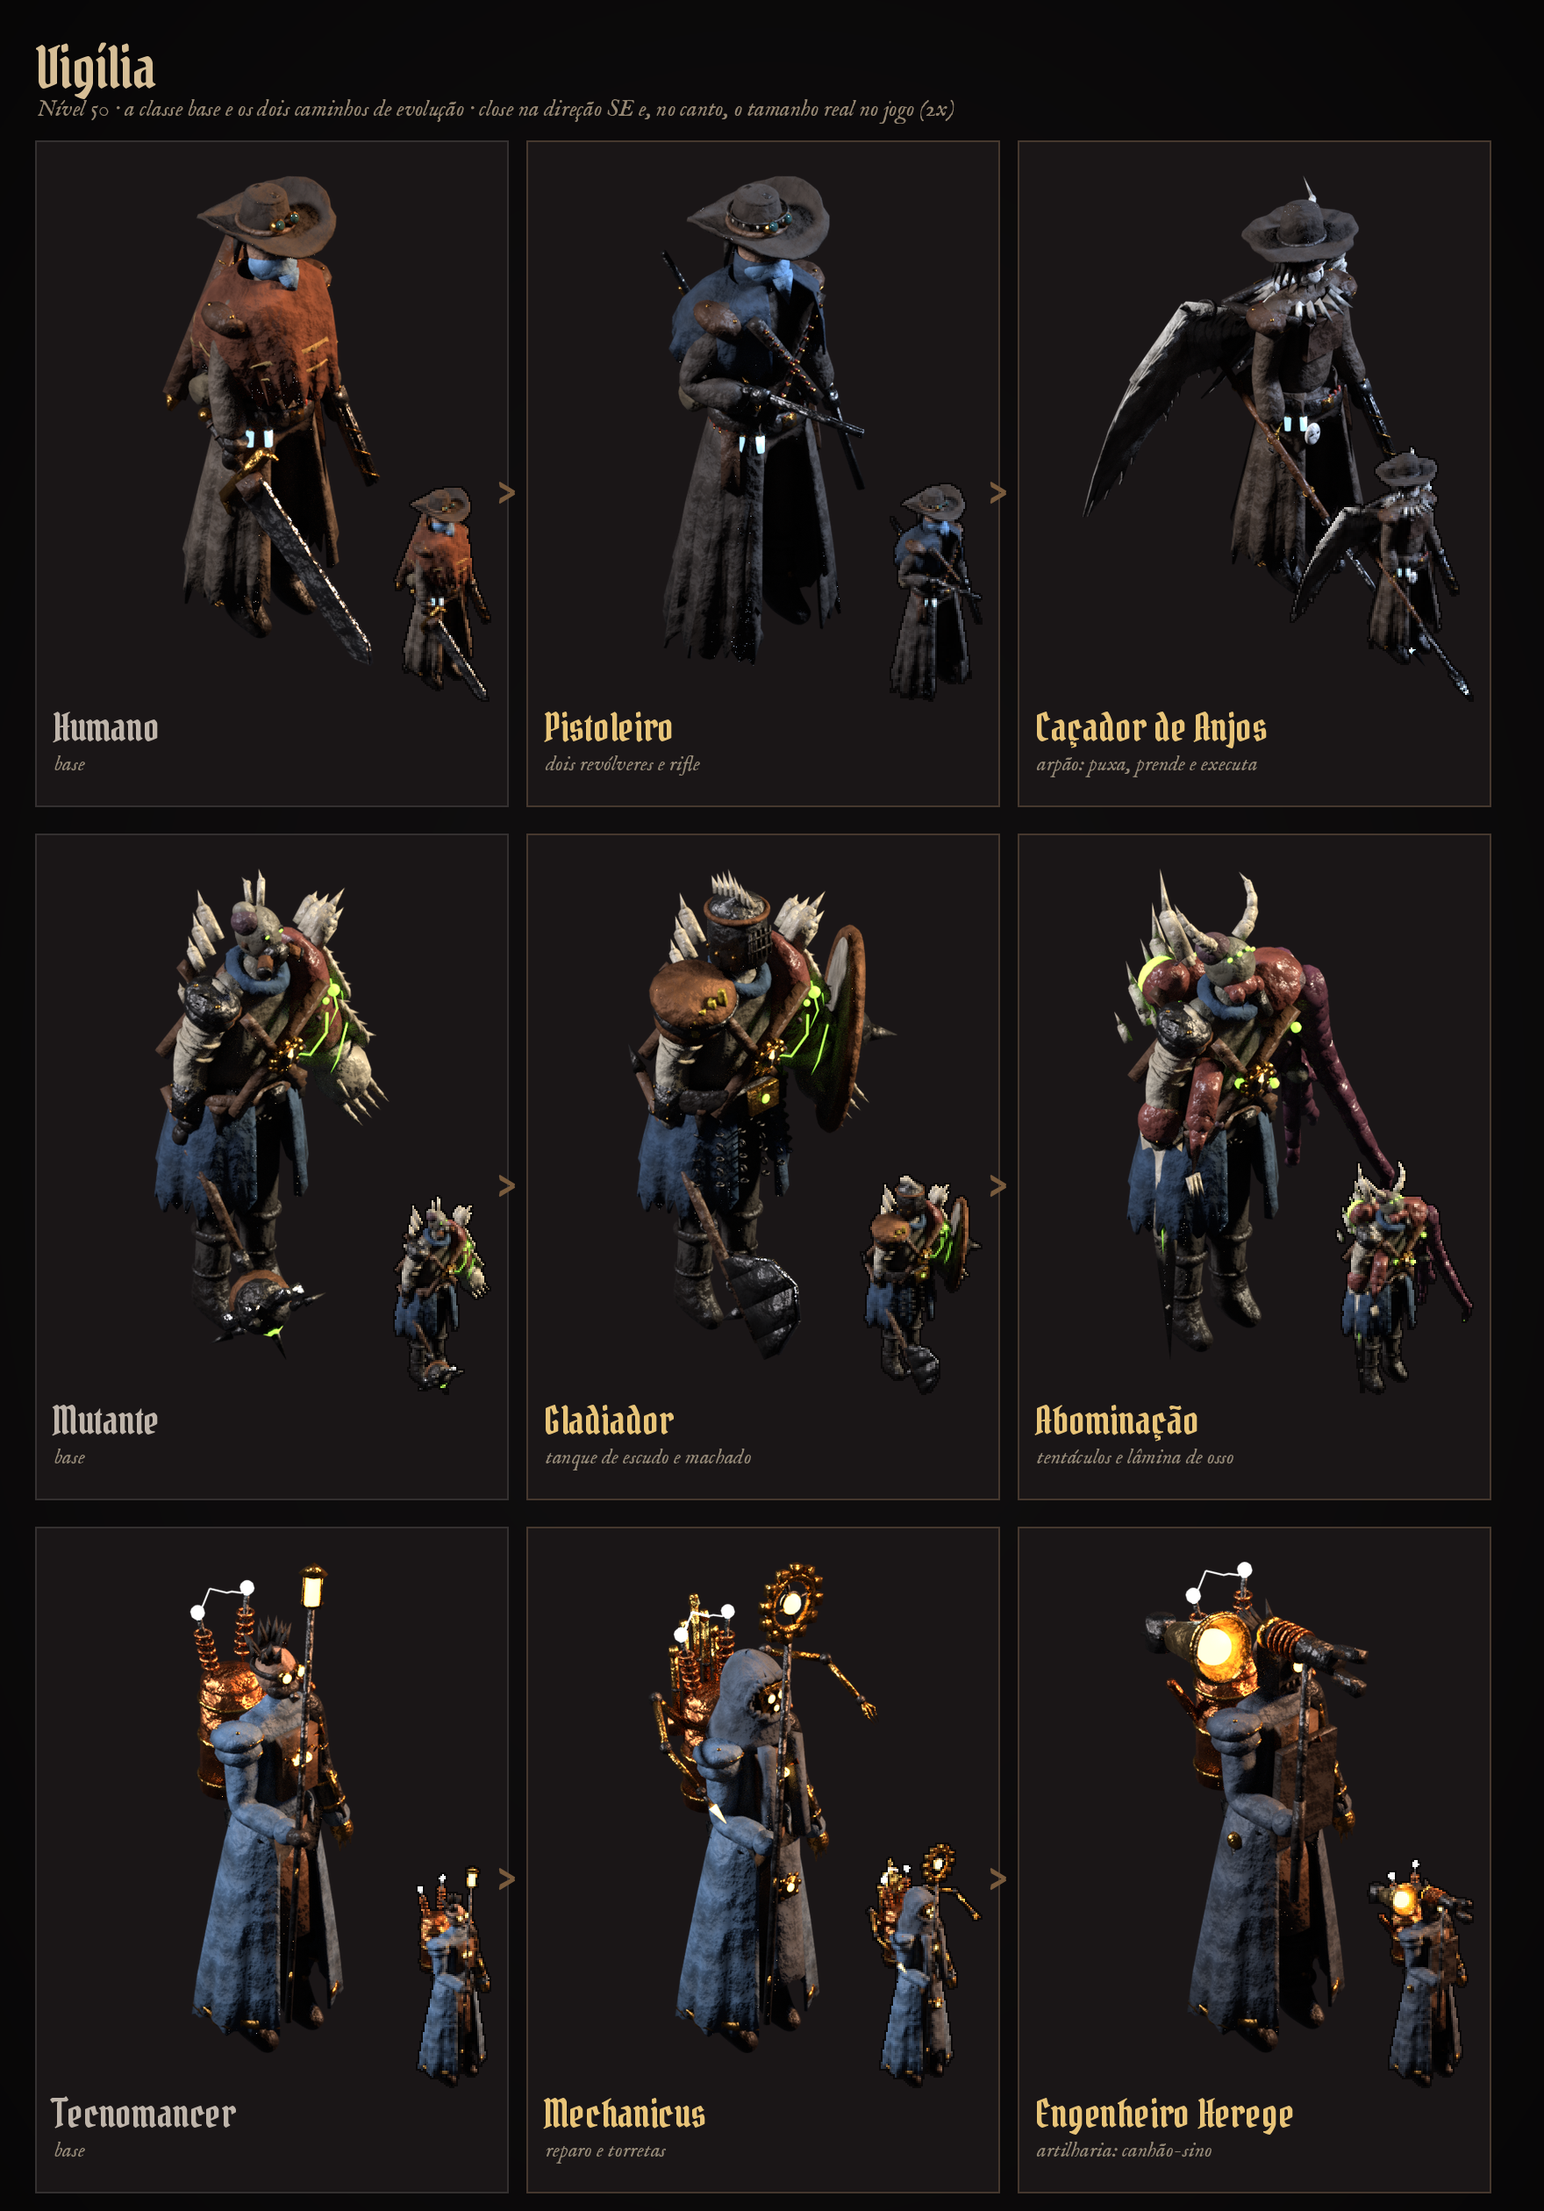
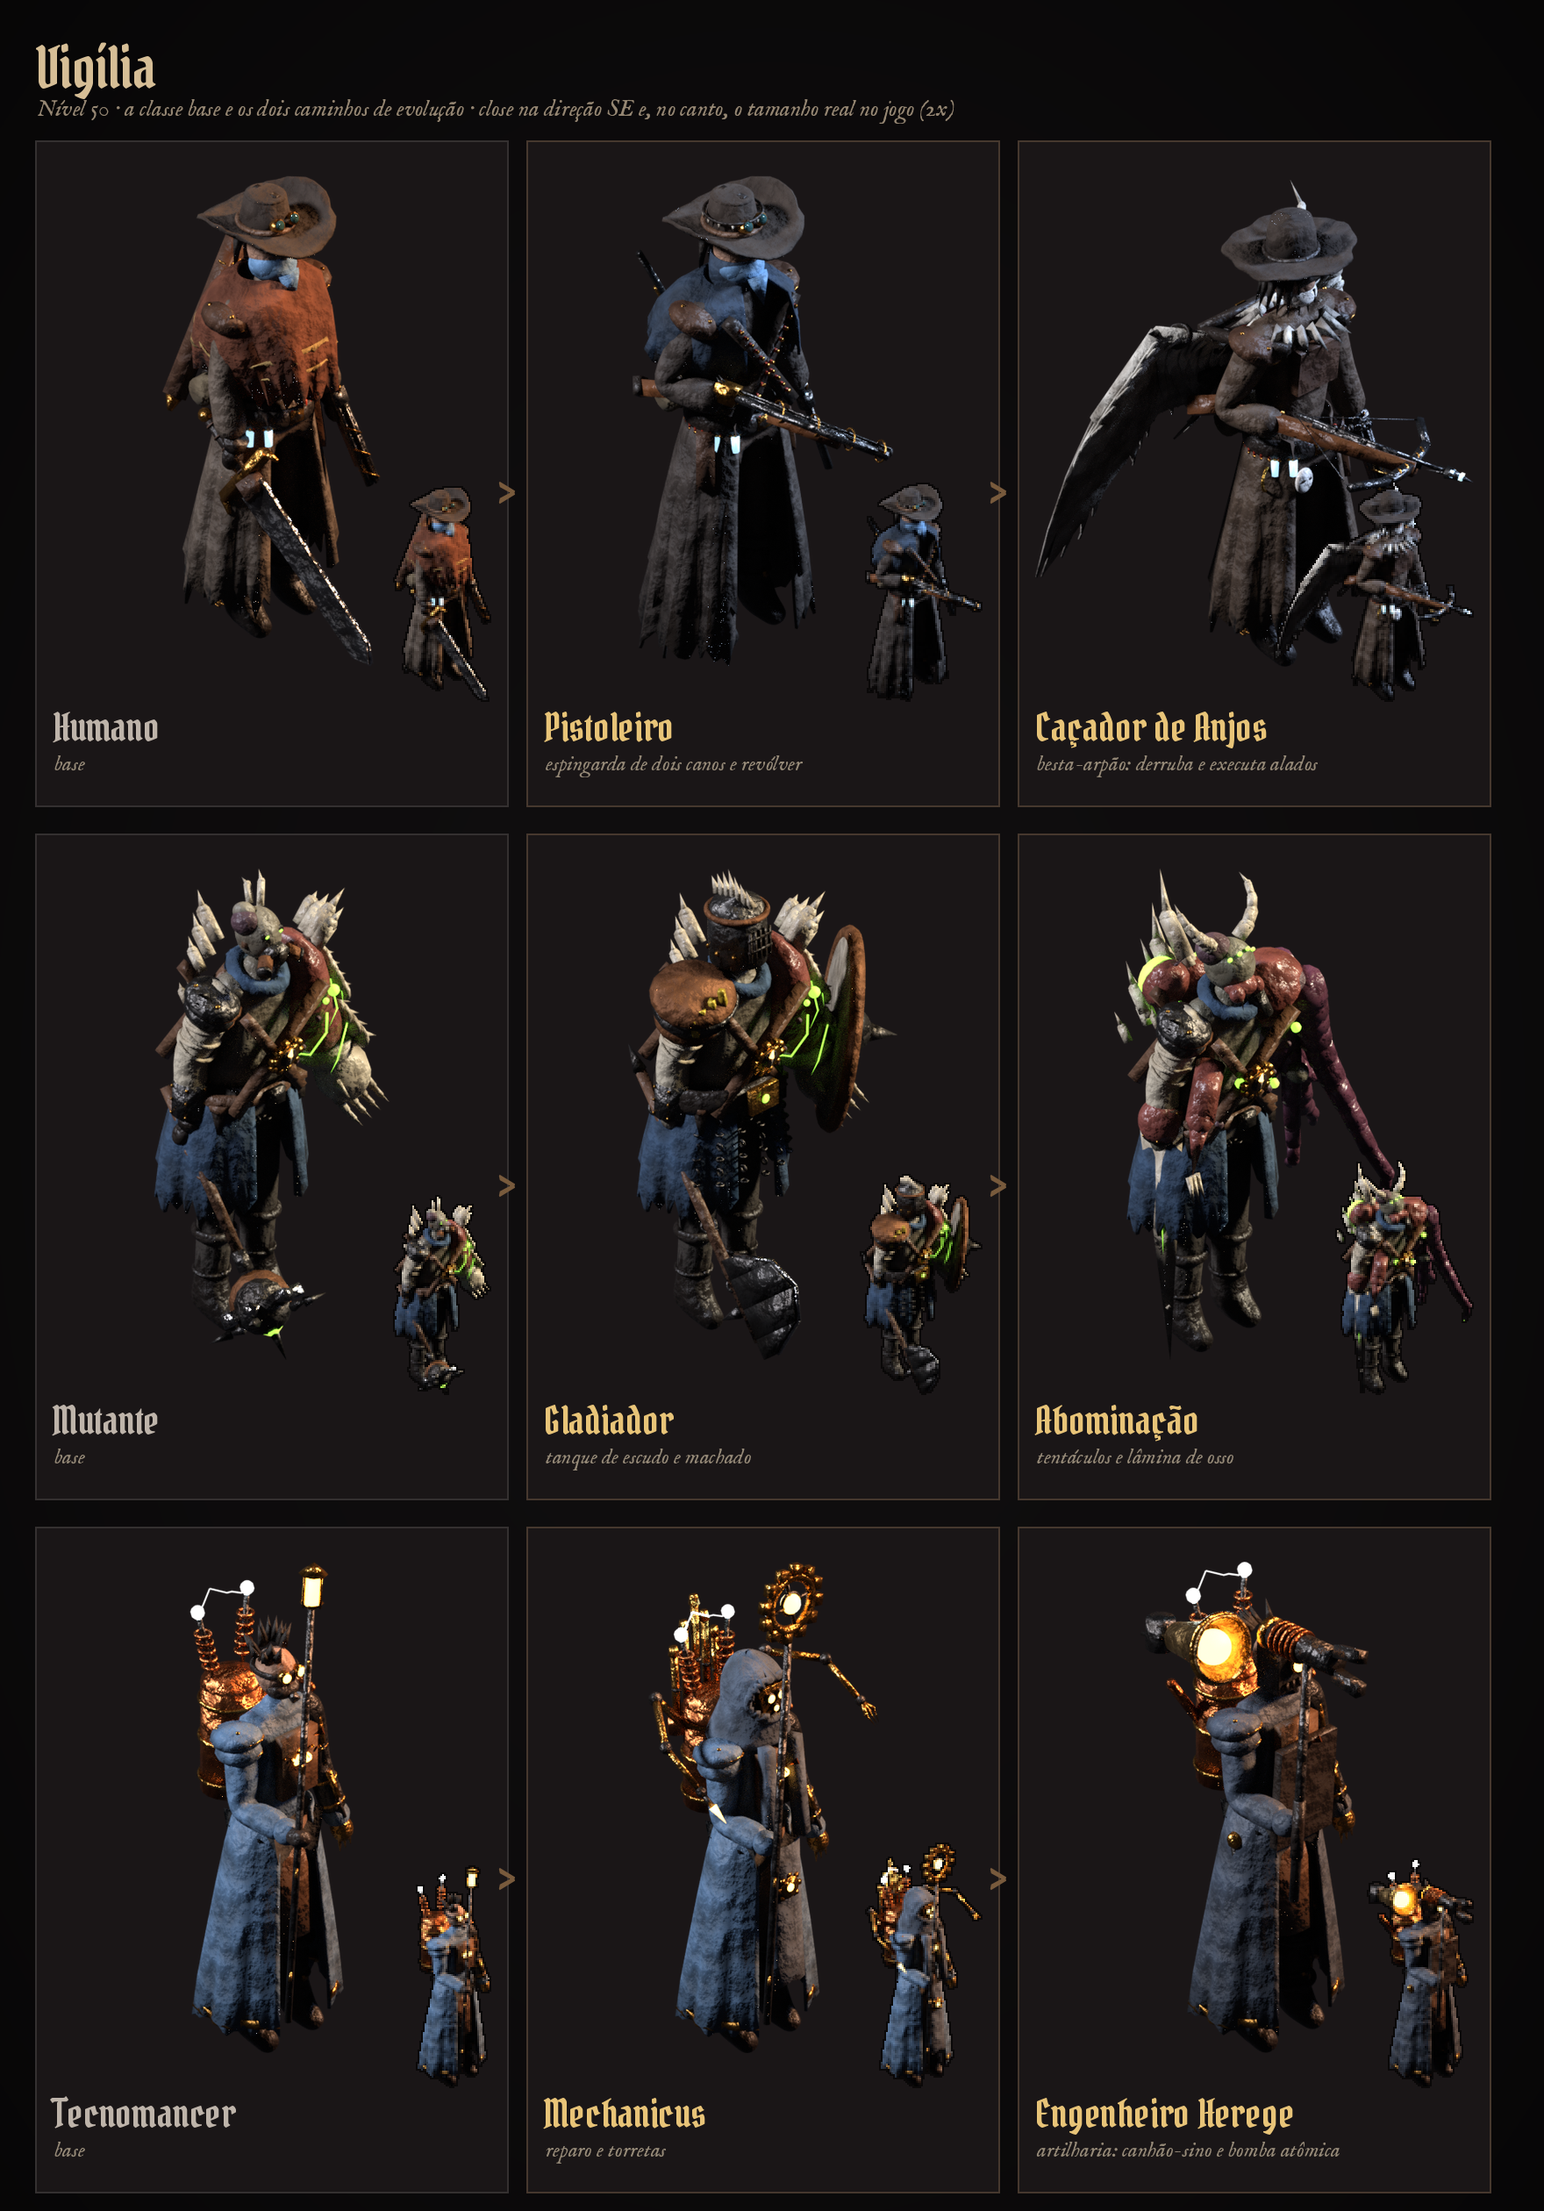
Evoluções: skills de nível 65, Humano atirador (espingarda e besta-arpão) e Forma Colossal da Abominação
Claude-Session: https://claude.ai/code/session_01Sknk5Bb29nZy4kpKu7zTkE

diff --git a/tools/sprite-pipeline/personagens/evolucoes.py b/tools/sprite-pipeline/personagens/evolucoes.py
@@ -713,9 +713,50 @@ def _revolver(n, iron, wood, brass, holy, long_=.4):
     gp.append(prim("primitive_torus_add", brass, g - up*.0 - ax*.03, (1,1,1), major_radius=.02, minor_radius=.004))
     return gp, g + up*.045 + ax*long_, ax
 
+def _espingarda(n, iron, wood, brass, holy, dark, long_=.62):
+    """Espingarda de dois canos inteira (não serrada): canos longos, telha de madeira, báscula gravada e coronha cheia."""
+    fr = bone_frame(f"hand.{n}", up=Vector((0, -1, 0))); o, ax, up, sd = fr; g = L(fr, .04); gun = []
+    for s_ in (1, -1):
+        gun.append(along("primitive_cylinder_add", iron, g + up*.045 + sd*.018*s_ - ax*.02, g + up*.045 + sd*.018*s_ + ax*long_, .018, vertices=10))
+        gun.append(along("primitive_cylinder_add", dark, g + up*.045 + sd*.018*s_ + ax*(long_ - .005), g + up*.045 + sd*.018*s_ + ax*(long_ + .003), .011, vertices=8))
+    gun.append(along("primitive_cube_add", iron, g + up*.068 - ax*.02, g + up*.068 + ax*long_, .005))
+    gun.append(along("primitive_cube_add", wood, g + up*.02 + ax*.12, g + up*.02 + ax*.42, .024))
+    for t in (.15, .3, .45, .58):
+        gun.append(prim("primitive_torus_add", brass, g + up*.045 + ax*t, (1,1,1), major_radius=.042, minor_radius=.004))
+    gun.append(along("primitive_cube_add", brass, g + up*.04 - ax*.11, g + up*.04 - ax*.02, .036))
+    for s_ in (1, -1):
+        gun.append(along("primitive_cone_add", iron, g + up*.07 - ax*.09 + sd*.012*s_, g + up*.095 - ax*.12 + sd*.012*s_, 1, radius1=.009, radius2=0, vertices=4))
+    gun.append(along("primitive_cube_add", wood, g - ax*.1 + up*.02, g - ax*.4 - up*.07, .032))
+    gun.append(along("primitive_cube_add", dark, g - ax*.39 - up*.06, g - ax*.42 - up*.075, .036))
+    for k in range(4):
+        gun.append(along("primitive_cylinder_add", holy, g - ax*(.18 + .045*k) + sd*.034, g - ax*(.18 + .045*k) + sd*.044, .01, vertices=6))
+    return gun, g + up*.045 + ax*long_, ax
+
+def _besta_arpao(n, iron, wood, brass, holy, dark):
+    """Besta pesada de caçar anjo: arco de molas de bonde, cordame de aço, manivela e um virote-arpão farpado carregado."""
+    fr = bone_frame(f"hand.{n}", up=Vector((0, -1, 0))); o, ax, up, sd = fr; g = L(fr, .04); w = []
+    w.append(along("primitive_cube_add", wood, g - ax*.32 + up*.0, g + ax*.5 + up*.04, .03))
+    w.append(along("primitive_cube_add", iron, g + ax*.05 + up*.06, g + ax*.52 + up*.06, .012))
+    w.append(along("primitive_cube_add", wood, g - ax*.32, g - ax*.45 - up*.06, .036))
+    fp = g + ax*.48 + up*.05
+    for s_ in (1, -1):
+        mid = fp + sd*.2*s_ - ax*.02; tip = fp + sd*.38*s_ - ax*.12
+        w.append(along("primitive_cube_add", iron, fp, mid, .018)); w.append(along("primitive_cube_add", iron, mid, tip, .013))
+        for t in (.3, .6): w.append(prim("primitive_torus_add", brass, fp.lerp(mid, t), (1,1,1), major_radius=.022, minor_radius=.004))
+        w.append(along("primitive_cylinder_add", iron, tip, g + up*.065 - ax*.02, .0025, vertices=4))
+    w.append(along("primitive_cylinder_add", brass, g - ax*.12 + up*.0 - sd*.04, g - ax*.12 - sd*.1, .012, vertices=8))
+    w.append(prim("primitive_uv_sphere_add", brass, g - ax*.12 - sd*.11, (.018,.018,.018)))
+    a0 = g + up*.075 - ax*.02; a1 = g + up*.075 + ax*.62
+    w.append(along("primitive_cylinder_add", iron, a0, a1, .009, vertices=6))
+    w.append(along("primitive_cone_add", iron, a1, a1 + ax*.12, 1, radius1=.03, radius2=0, vertices=4))
+    for s_ in (1, -1):
+        w.append(along("primitive_cone_add", iron, a1 + ax*.03, a1 - ax*.07 + sd*.045*s_, 1, radius1=.012, radius2=0, vertices=4))
+    for k in range(2): w.append(along("primitive_cube_add", holy, a1 + ax*(.02 + .04*k) + up*.004, a1 + ax*(.035 + .04*k) + up*.004, .014))
+    return w, a1 + ax*.12, ax
+
 def pistoleiro():
-    """A mão mais rápida da Vigília: guarda-pó longo até a bota com capa curta nos ombros, dois revólveres de cano longo
-    com balas bentas, cartucheiras cruzadas, rifle de alavanca nas costas e chapéu de aba larga com cordão de dentes de anjo."""
+    """A mão mais rápida da Vigília: guarda-pó longo até a bota com capa curta nos ombros, espingarda de dois canos
+    com cartuchos bentos, revólver de apoio, cartucheiras cruzadas, rifle de alavanca nas costas e chapéu de aba larga com cordão de dentes de anjo."""
     mat("guarda_po", (.07,.055,.045), 0, .7, dirt=.5, grime=.9)
     arm, info = classes.humano()
     drop_named("humano_hand.R", "humano_hand.L", "humano_chest", "poncho", "clarao", "rastro", "corte_dash")
@@ -762,14 +803,13 @@ def pistoleiro():
     hd.append(prim("primitive_torus_add", dark, (0,0,1.84), (1,1,1), major_radius=.113, minor_radius=.006))
     hd.append(skirt("lenco_rosto", mat("lona_azul_noite", (.035,.055,.085)), [(1.66,.083,.093,-.01), (1.6,.09,.1,-.01), (1.54,.1,.1,-.02)], open_front=0, thick=.006))
     parts.append(rigid(hd, arm, "head"))
-    for n in "LR":
-        gp, muzzle, ax = _revolver(n, iron, wood, brass, holy)
-        parts.append(rigid(gp, arm, f"hand.{n}"))
+    gp, muzzle, ax = _espingarda("R", iron, wood, brass, holy, dark)
+    parts.append(rigid(gp, arm, "hand.R"))
+    gp, _m, _a = _revolver("L", iron, wood, brass, holy, long_=.3)
+    parts.append(rigid(gp, arm, "hand.L"))
     flash = mat("clarao", (1,.8,.4), emit=(1,.7,.3), strength=25)
-    gp, muzzle, ax = _revolver("L", iron, wood, brass, holy)
-    for o_ in gp: bpy.data.objects.remove(o_, do_unlink=True)
-    flo = rigid([along("primitive_cone_add", flash, muzzle, muzzle + ax*.3, 1, radius1=.09, radius2=0, vertices=8),
-                 prim("primitive_uv_sphere_add", flash, muzzle + ax*.03, (.07,.07,.07))], arm, "hand.L"); flo.name = "clarao"
+    flo = rigid([along("primitive_cone_add", flash, muzzle, muzzle + ax*.4, 1, radius1=.13, radius2=0, vertices=8),
+                 prim("primitive_uv_sphere_add", flash, muzzle + ax*.04, (.1,.1,.1))], arm, "hand.R"); flo.name = "clarao"
     grow(arm, 1.03)
     info = {"rim": (.6, .75, 1), "anim": "gun", "flash": flo, "base": "humano"}
     return arm, info
@@ -834,21 +874,12 @@ def cacador_de_anjos():
         a = math.radians(70 + k*22); b = Vector((.085*math.cos(a), .085*math.sin(a) + .01, 1.72))
         hd.append(along("primitive_cone_add", hairm, b, b + Vector((math.cos(a)*.03, math.sin(a)*.04 + .02, -.18)), 1, radius1=.025, radius2=0, vertices=5))
     parts.append(rigid(hd, arm, "head"))
-    # arpão de corrente: haste de ferro, ponta farpada com runas de água benta, corrente enrolada no braço
-    fr, bd, g = weapon_frame(); o, ax, up, sd = fr; perp = bd.cross(sd).normalized()
-    top = g + bd*1.05
-    w = [along("primitive_cylinder_add", wood, g - bd*.45, g + bd*.45, .019, vertices=8),
-         along("primitive_cylinder_add", iron, g + bd*.45, top, .016, vertices=8),
-         along("primitive_cone_add", iron, top, top + bd*.24, 1, radius1=.045, radius2=0, vertices=4)]
-    for s_ in (1, -1):
-        w.append(along("primitive_cone_add", iron, top + bd*.06, top - bd*.1 + sd*.07*s_, 1, radius1=.018, radius2=0, vertices=4))
-        w.append(along("primitive_cone_add", iron, top + bd*.0, top - bd*.12 + perp*.06*s_, 1, radius1=.014, radius2=0, vertices=4))
-    for k in range(3): w.append(along("primitive_cube_add", holy, top + bd*(.03 + .05*k) + sd*.002, top + bd*(.05 + .05*k) + sd*.002, .02))
-    for k in range(3): w.append(prim("primitive_torus_add", brass, g + bd*(-.3 + .3*k), (1,1,1), major_radius=.024, minor_radius=.005))
-    w += chain_links(iron, top - bd*.05, g + bd*.05 + sd*.05, 14, sag=.12)
+    # besta pesada com virote-arpão; a corrente sai do virote e enrola no braço
+    w, tip, ax = _besta_arpao("R", iron, wood, brass, holy, dark)
+    w += chain_links(iron, tip - ax*.6, tip - ax*.75 + Vector((0,0,-.25)), 12, sag=.1)
     parts.append(rigid(w, arm, "hand.R"))
     grow(arm, 1.04)
-    info.update({"rim": (.55, .7, 1), "base": "humano"})
+    info.update({"rim": (.55, .7, 1), "base": "humano", "anim": "gun"})
     info["fx"] = []
     return arm, info
 
@@ -1017,6 +1048,65 @@ def abominacao():
         parts.append(rigid(tb, arm, "upper_arm.L"))
     grow(arm, 1.16)
     info.update({"base": "mutante"}); return arm, info
+
+def _tentaculo(m, tip_m, sucker_m, base_, dirv, side, ln, r0, seed, curl=1.0, seg=14):
+    """Tentáculo de carne: cilindros encadeados que afinam, ventosas por baixo e ponta de ácido enrolando."""
+    rnd = random.Random(seed); pts = []
+    for j in range(seg + 1):
+        t = j/seg
+        c = base_ + dirv*ln*t + side*(.35*t*ln + .1*math.sin(t*math.pi*2.4 + seed)*ln) + Vector((0, 0, -.18*t*t*ln))
+        if t > .7: c += Vector((.08*math.sin(seed + t*10), .08*math.cos(seed + t*10), .06*(t - .7)*3))*curl*ln
+        pts.append(c)
+    tb = []
+    for j in range(seg):
+        r = r0*(1 - j/seg)**.8 + .008
+        tb.append(along("primitive_cylinder_add", m, pts[j], pts[j+1], r, vertices=12))
+        tb.append(prim("primitive_uv_sphere_add", m, pts[j+1], (r,)*3, segments=12, ring_count=6))
+        if 1 < j < seg - 1:
+            dn = (pts[j+1] - pts[j]).cross(Vector((0, 1, 0))).normalized()
+            if dn.z > 0: dn = -dn
+            tb.append(prim("primitive_uv_sphere_add", sucker_m, pts[j] + dn*r*.9, (r*.35, r*.35, r*.2), segments=8, ring_count=4))
+    tb.append(along("primitive_cone_add", tip_m, pts[-1], pts[-1] + (pts[-1] - pts[-2]).normalized()*.09, 1, radius1=.02, radius2=0, vertices=6))
+    return tb
+
+def abominacao_colossal():
+    """Forma Colossal (skill de nível 65): a carne se rompe e a Abominação vira um monstro de tentáculos quase duas vezes
+    maior; uma coroa de tentáculos gigantes brota das costas e o peito se abre numa boca com dentes de osso."""
+    arm, info = abominacao()
+    tent = mat("tentaculo", (.13,.05,.08)); acid = mat("verde_acido", (.3,1,.1)); bone = mat("osso_quitina", (.46,.41,.32))
+    flesh = mat("carne_mutada", (.22,.075,.06)); bruise = mat("pele_roxa", (.1,.06,.07))
+    s0 = 1/1.16   # o builder base já cresceu; trabalhamos no espaço já escalado
+    parts = []
+    # coroa de tentáculos gigantes nas costas
+    ch = []
+    specs = [(-.18, 1.45, (-.9, .5, .6), 1.5, .11), (.18, 1.45, (.9, .5, .6), 1.5, .11), (-.12, 1.25, (-.8, .7, -.1), 1.3, .1),
+             (.12, 1.25, (.8, .7, -.1), 1.3, .1), (0, 1.55, (0, .5, 1.0), 1.2, .095), (-.05, 1.05, (-.4, .9, -.5), 1.1, .085),
+             (.06, 1.05, (.4, .9, -.5), 1.1, .085)]
+    for i, (x, z, d, ln, r0) in enumerate(specs):
+        b = Vector((x, .25, z))*1.16; dv = Vector(d).normalized()
+        sd_ = dv.cross(Vector((0, 0, 1))); sd_ = sd_.normalized() if sd_.length > .01 else Vector((1, 0, 0))
+        ch.append(prim("primitive_uv_sphere_add", flesh, b, (r0*1.6,)*3, segments=12, ring_count=8))
+        ch += _tentaculo(tent, acid, bone, b, dv, sd_*(1 if i % 2 else -1), ln, r0, 40 + i)
+    # boca no peito: lábios de carne, anel de dentes de osso e fundo de ácido
+    mc = Vector((0, -.2, 1.3))*1.16
+    ch.append(prim("primitive_uv_sphere_add", acid, mc + Vector((0, .05, 0)), (.07, .03, .2)))
+    for s_ in (1, -1):   # boca vertical: dois lábios de carne e fileiras de dentes de osso
+        ch.append(prim("primitive_uv_sphere_add", flesh, mc + Vector((.09*s_, 0, 0)), (.07, .06, .24), segments=14, ring_count=10))
+        for k in range(9):
+            z = -.19 + .0475*k
+            ch.append(along("primitive_cone_add", bone, mc + Vector((.06*s_, -.04, z)), mc + Vector((.0, -.05, z - .01)), 1, radius1=.017, radius2=0, vertices=4))
+    for k in range(8):
+        ch.append(prim("primitive_uv_sphere_add", bruise if k % 2 else acid, (random.uniform(-.25, .25), -.22, random.uniform(1.0, 1.7)), (.035,)*3, segments=8, ring_count=5))
+    parts.append(rigid(ch, arm, "chest"))
+    # saia de tentáculos grossos que desce do quadril até o chão e esconde as pernas
+    hp = [prim("primitive_uv_sphere_add", flesh, Vector((0, .02, .95))*1.16, (.34, .3, .26), segments=16, ring_count=10)]
+    for k in range(9):
+        a = 2*math.pi*k/9 + .2; d = Vector((math.cos(a)*.55, math.sin(a)*.55, -1)).normalized()
+        b = Vector((math.cos(a)*.22, math.sin(a)*.2 + .02, .9))*1.16
+        hp += _tentaculo(tent, acid, bone, b, d, Vector((-math.sin(a), math.cos(a), 0)), 1.2, .1, 60 + k, curl=.4, seg=10)
+    parts.append(rigid(hp, arm, "hips"))
+    grow(arm, 1.55)
+    info.update({"base": "abominacao", "transformacao": "forma_colossal"}); return arm, info
 
 # ====================================================================== TECNOMANCER → MECHANICUS
 def _servo_arm(m_a, m_b, m_c, base_, pts, tool):

diff --git a/tools/sprite-pipeline/personagens/evo_previa.py b/tools/sprite-pipeline/personagens/evo_previa.py
@@ -25,7 +25,7 @@ for kind in kinds:
         if o: o.hide_render = True
     pose = os.environ.get("POSE", "idle"); arm.animation_data.action = acts[pose]
     sc.frame_set(int(os.environ.get("FRAME", 1)))
-    T = Vector((0, 0, 1.05))
+    VW = float(os.environ.get("VIEW", 1)); T = Vector((0, 0, 1.05*VW))
     cam = bpy.data.objects.new("cam", bpy.data.cameras.new("cam")); sc.collection.objects.link(cam)
     cam.data.type = 'ORTHO'; sc.camera = cam
     def sun(name, rgb, energy, rot):
@@ -41,7 +41,7 @@ for kind in kinds:
     e = math.radians(30)
     for tag, k, size, res in (("close_S", 0, 3.0, 900), ("close_SE", 1, 3.0, 900), ("jogo", 1, 3.0, 384)):
         a = math.radians(45)
-        cam.data.ortho_scale = size
+        cam.data.ortho_scale = size*VW
         cam.location = T + Vector((40*math.cos(e)*math.sin(a), -40*math.cos(e)*math.cos(a), 40*math.sin(e)))
         cam.rotation_euler = (T - cam.location).to_track_quat('-Z','Y').to_euler()
         arm.rotation_euler = (0, 0, math.radians((k+1)*45))
